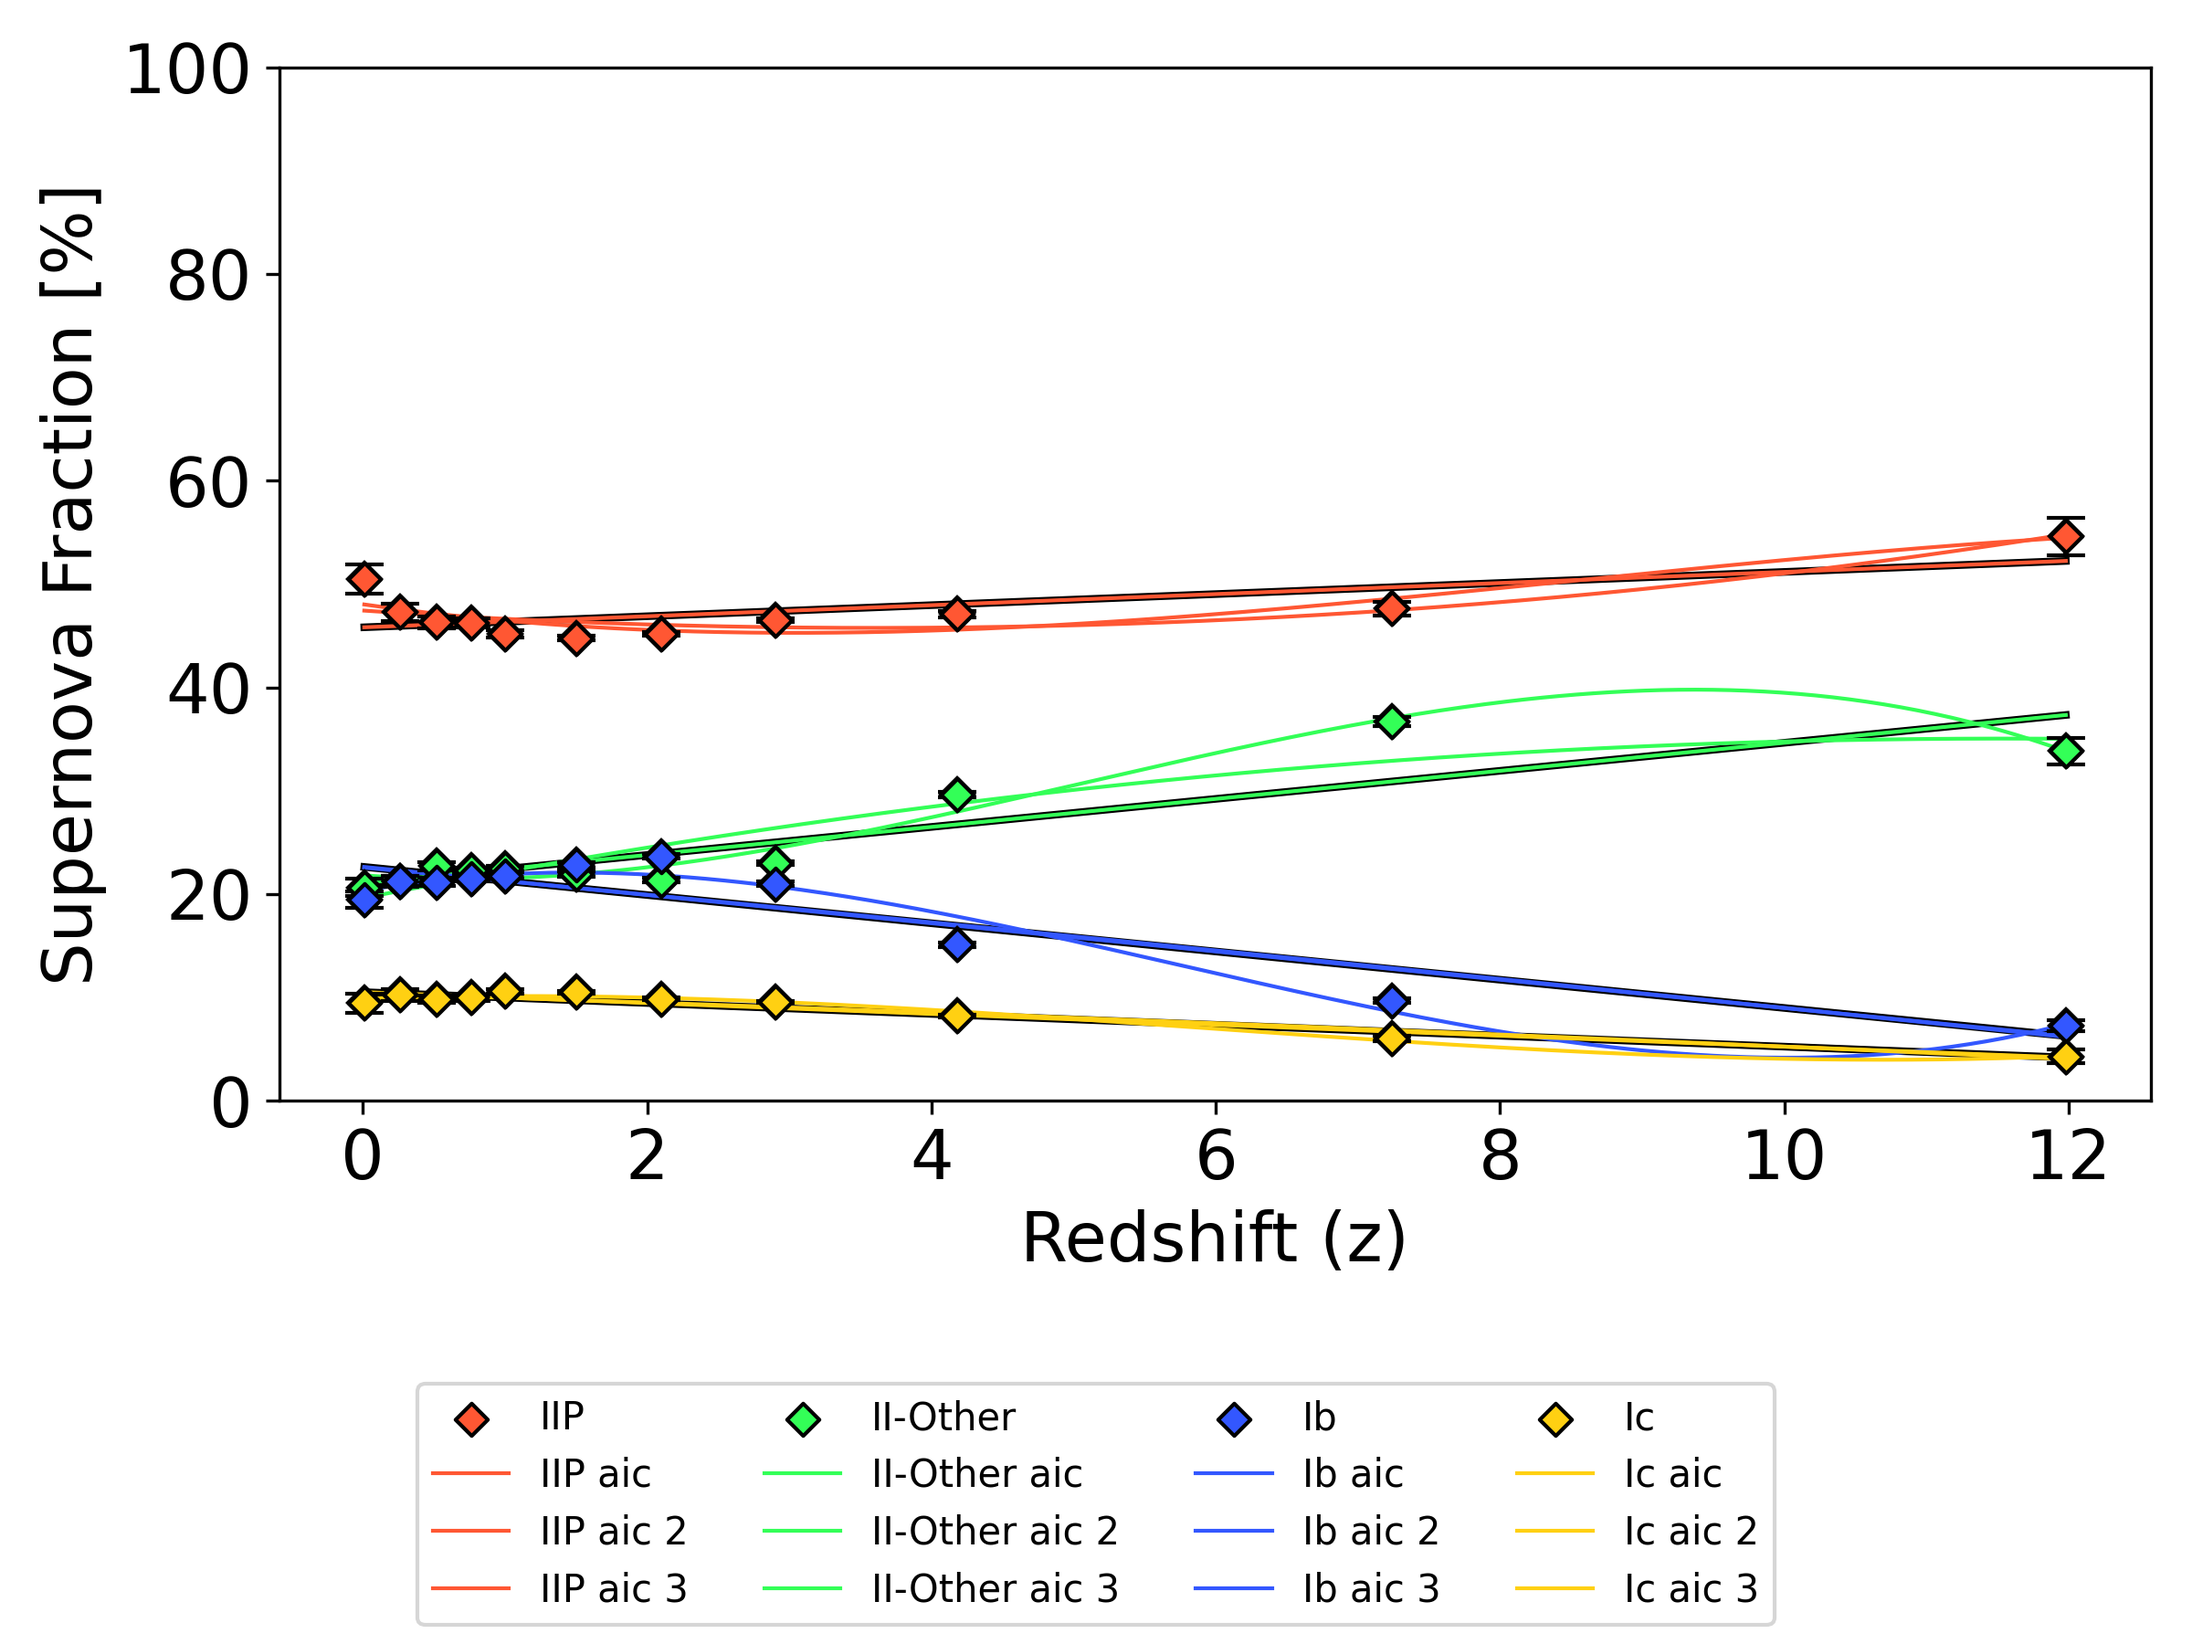
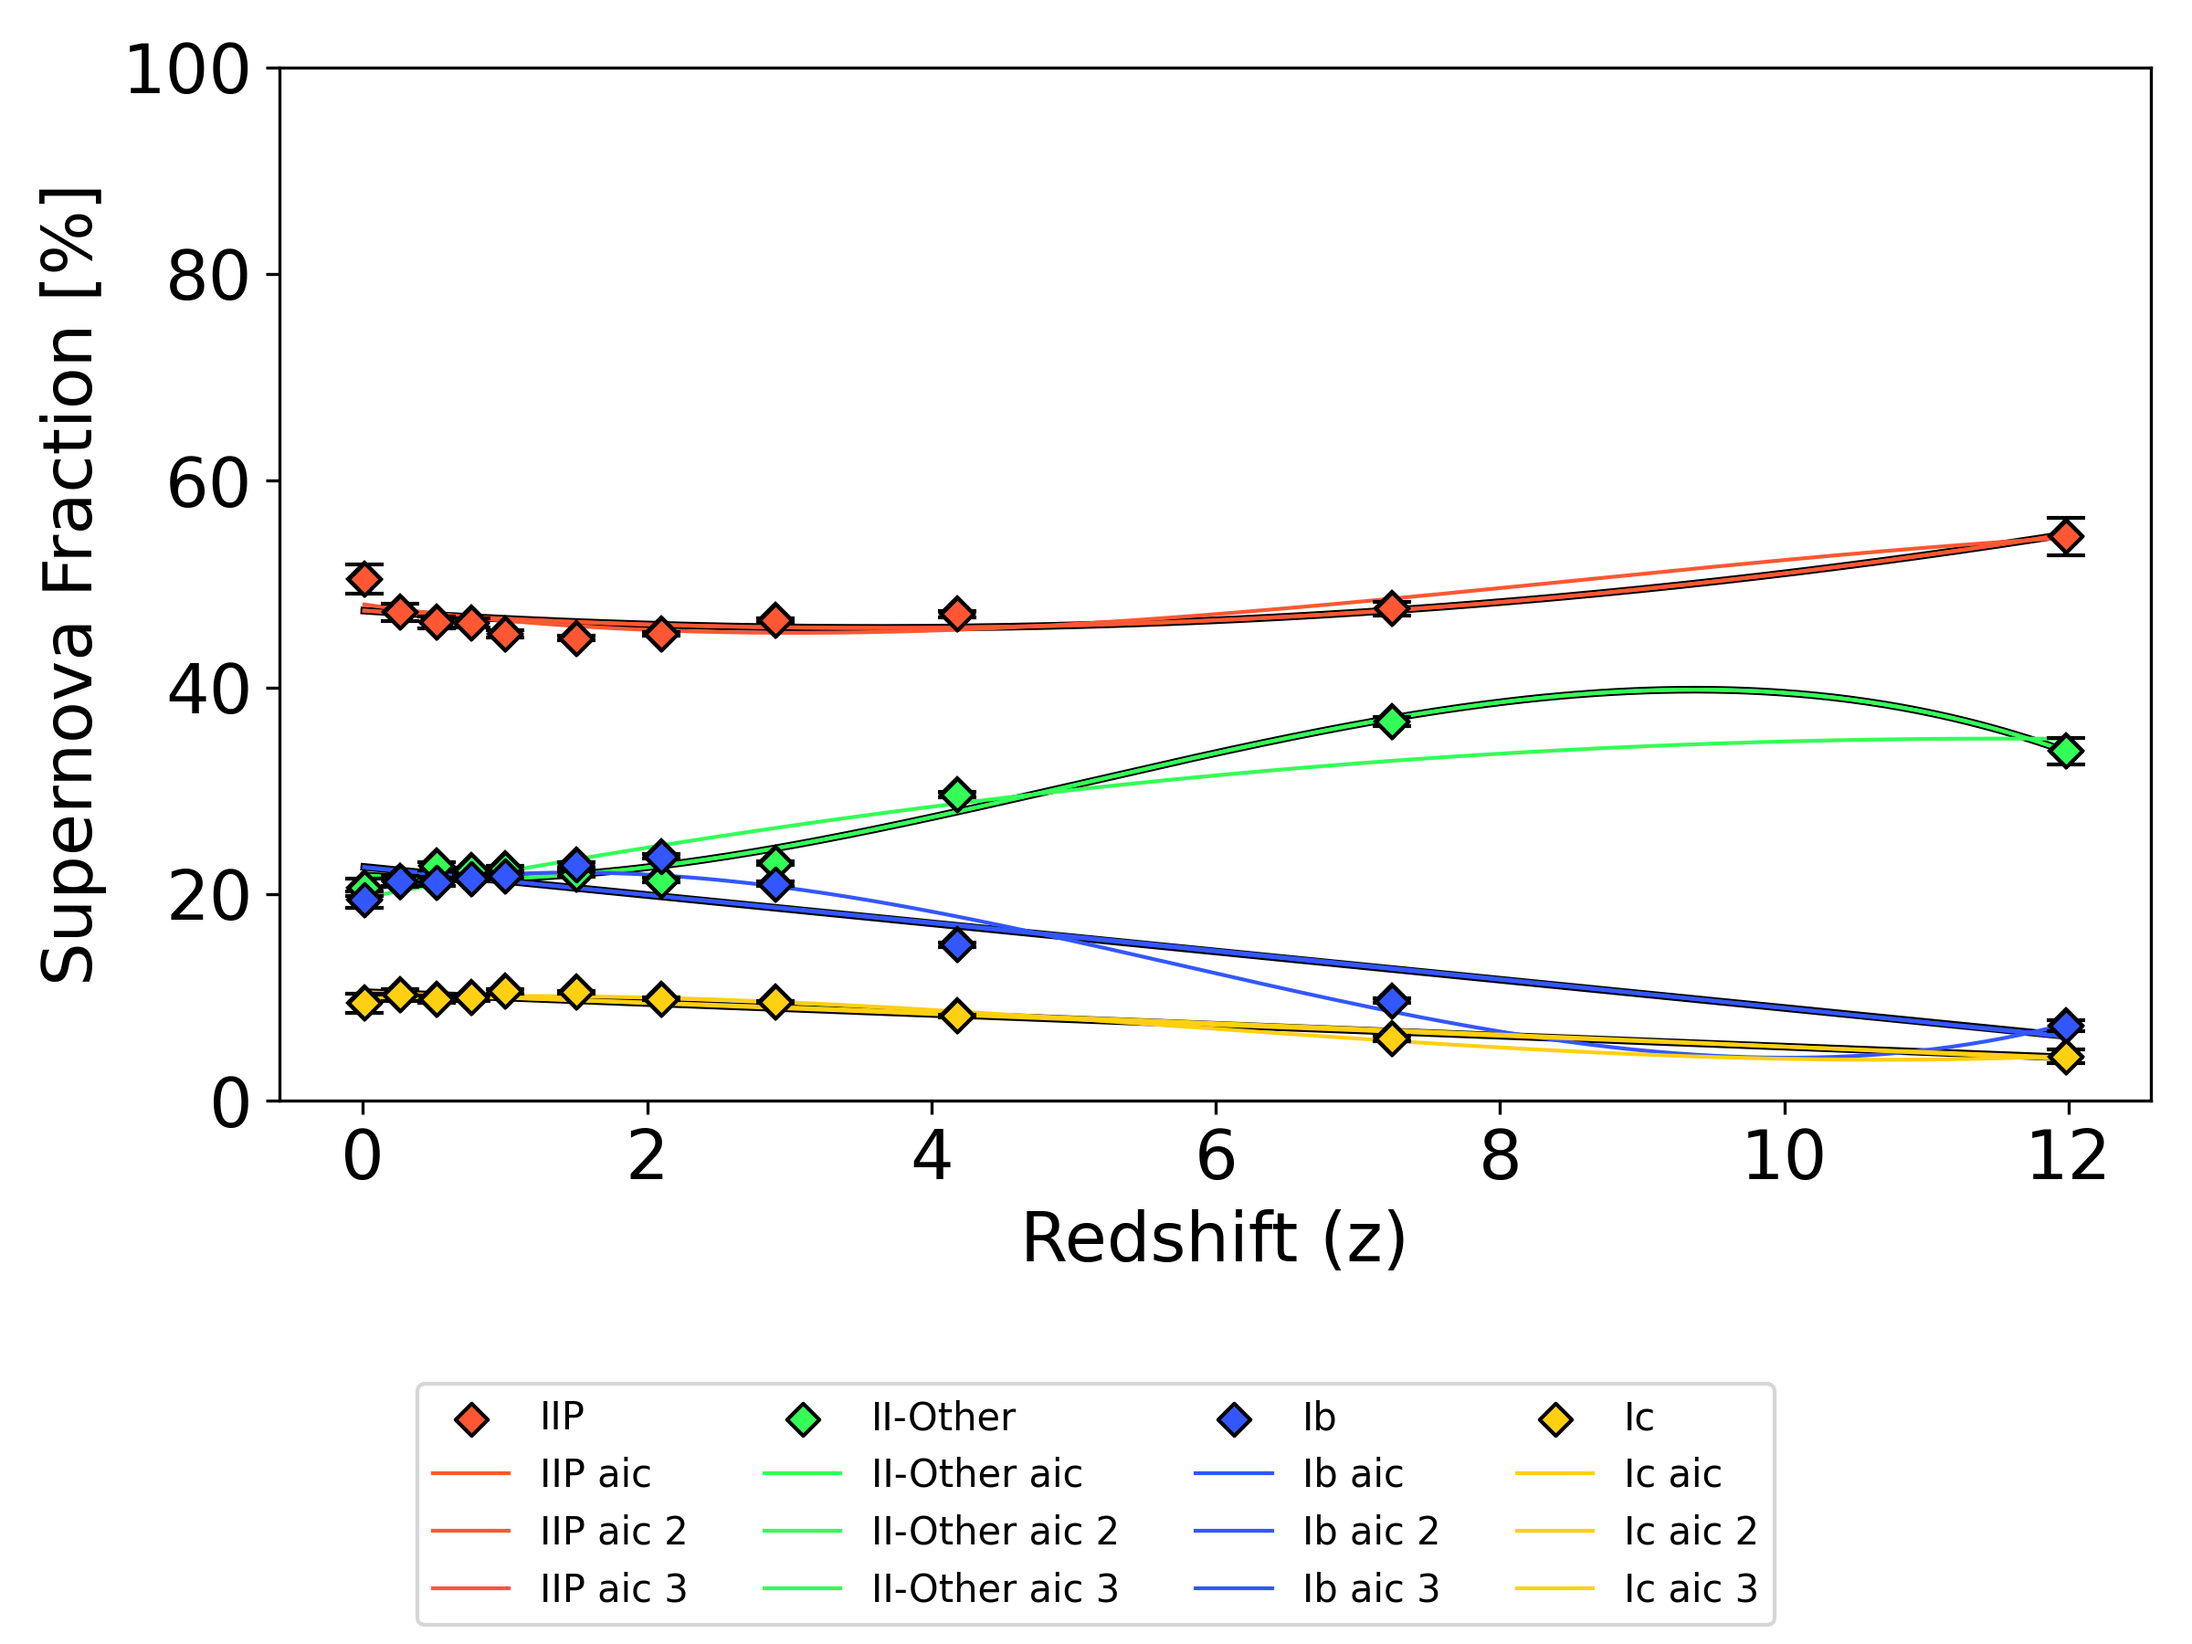
aic working

diff --git a/halo.py b/halo.py
@@ -411,28 +411,13 @@ def apply_aic(x, y, errs):
     # linear 
     p0 = np.polyfit(x, y, 1)
     initial = poly.polynomialCalc(p0, x)
-    initial_plot = poly.polynomialCalc(p0, x_plot)
     rss = aich.rss(y, initial)
-    prevAIC = aich.aic(2, len(y), rss)
-
-    min_aic = aich.aic(2, len(y), rss)
-    orders = range(1, 4)
-    aic_values = []
+    prev_aic = aich.aic(2, len(y), rss)
+    prev_plot = poly.polynomialCalc(p0, x_plot)
 
     for order in range(2,5):
-        selectedOrder += 1
         # initial guess with polyfit
-         = np.polyfit(x, y, order)
-        
-        # Scipy Curve fit 
-        model = lambda x, *params : poly.polynomialFunc(order, x, np.array(params))
-        #coeffs, matrix = sco.curve_fit(model, x, y, p0, errs, absolute_sigma=True, nan_policy='omit', method='trf')
-        coeffs, matrix = sco.curve_fit(model, x, y, p0, errs)
-        errCoeffs = np.sqrt(list(poly.getDiagonals(matrix))[0])
-
-        #coeffs = p0
-
-        print(f'    NumPy:{coeffs}\n    SciPy:{coeffs}')
+        coeffs = np.polyfit(x, y, order)
         
         # determine polynomial values
         poly_values = poly.polynomialCalc(coeffs, x)
@@ -441,11 +426,21 @@ def apply_aic(x, y, errs):
         # apply AIC to determine best order
         rss = aich.rss(y, poly_values)
         aic = aich.aic(order + 1, len(y), rss)
-        #prob = aich.probability(prevAIC, aic)
+        prob = aich.probability(prev_aic, aic)
         
-        aic_values.append(aic)
-        #print(f"Current Order{order}\n   RSS: {rss}\n   Simple:  {prevAIC} \n   Comples:  {aic} \n   Prob:  {prob}")
+        print(f"    Current Order {order}\n       Simple:  {prev_aic} \n       Complex:  {aic} \n       Prob:  {prob}")
 
+        if prob > 0.95:
+            # reject complex model 
+            return x_plot, prev_plot
+        else:
+            # accept complex model, move on 
+            prev_aic = aic
+            prev_plot = poly_plot
+
+    return x_plot, poly_plot
+
+    """
     probs = []
     for idx, aic in enumerate(aic_values):
         prob = aich.probability(min_aic, aic)
@@ -470,6 +465,8 @@ def apply_aic(x, y, errs):
         y_plot = initial_plot
 
     return x_plot, y_plot
+    """
+    
     """
         # make choice
         if prob > 0.95:
